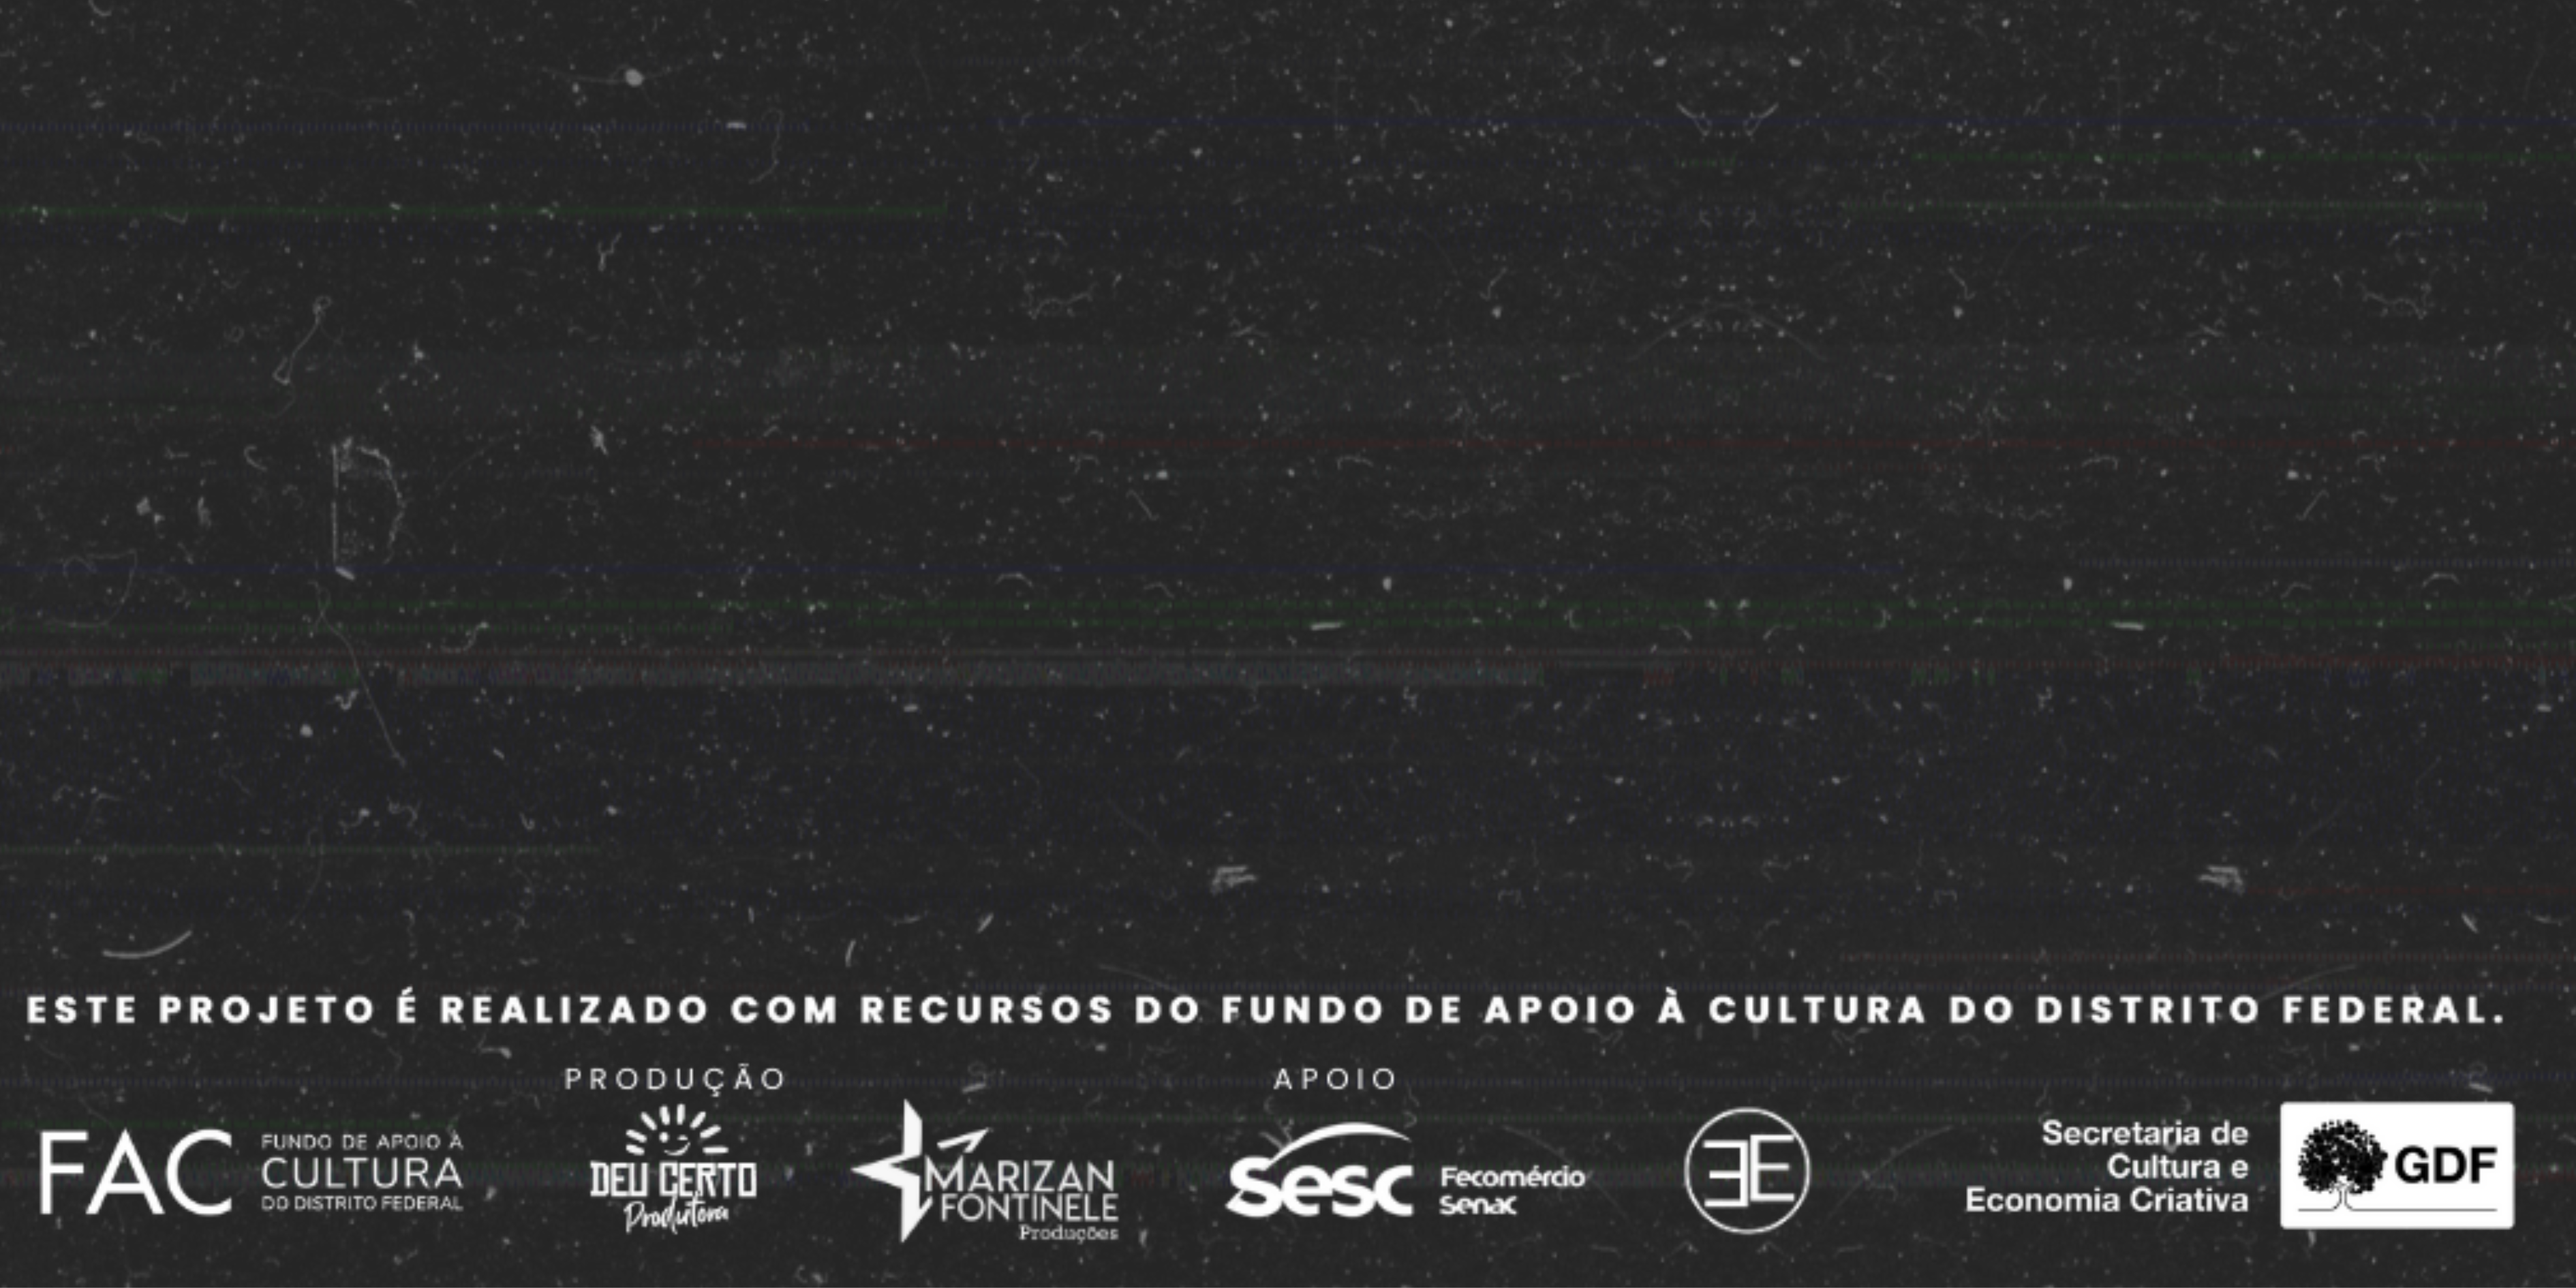
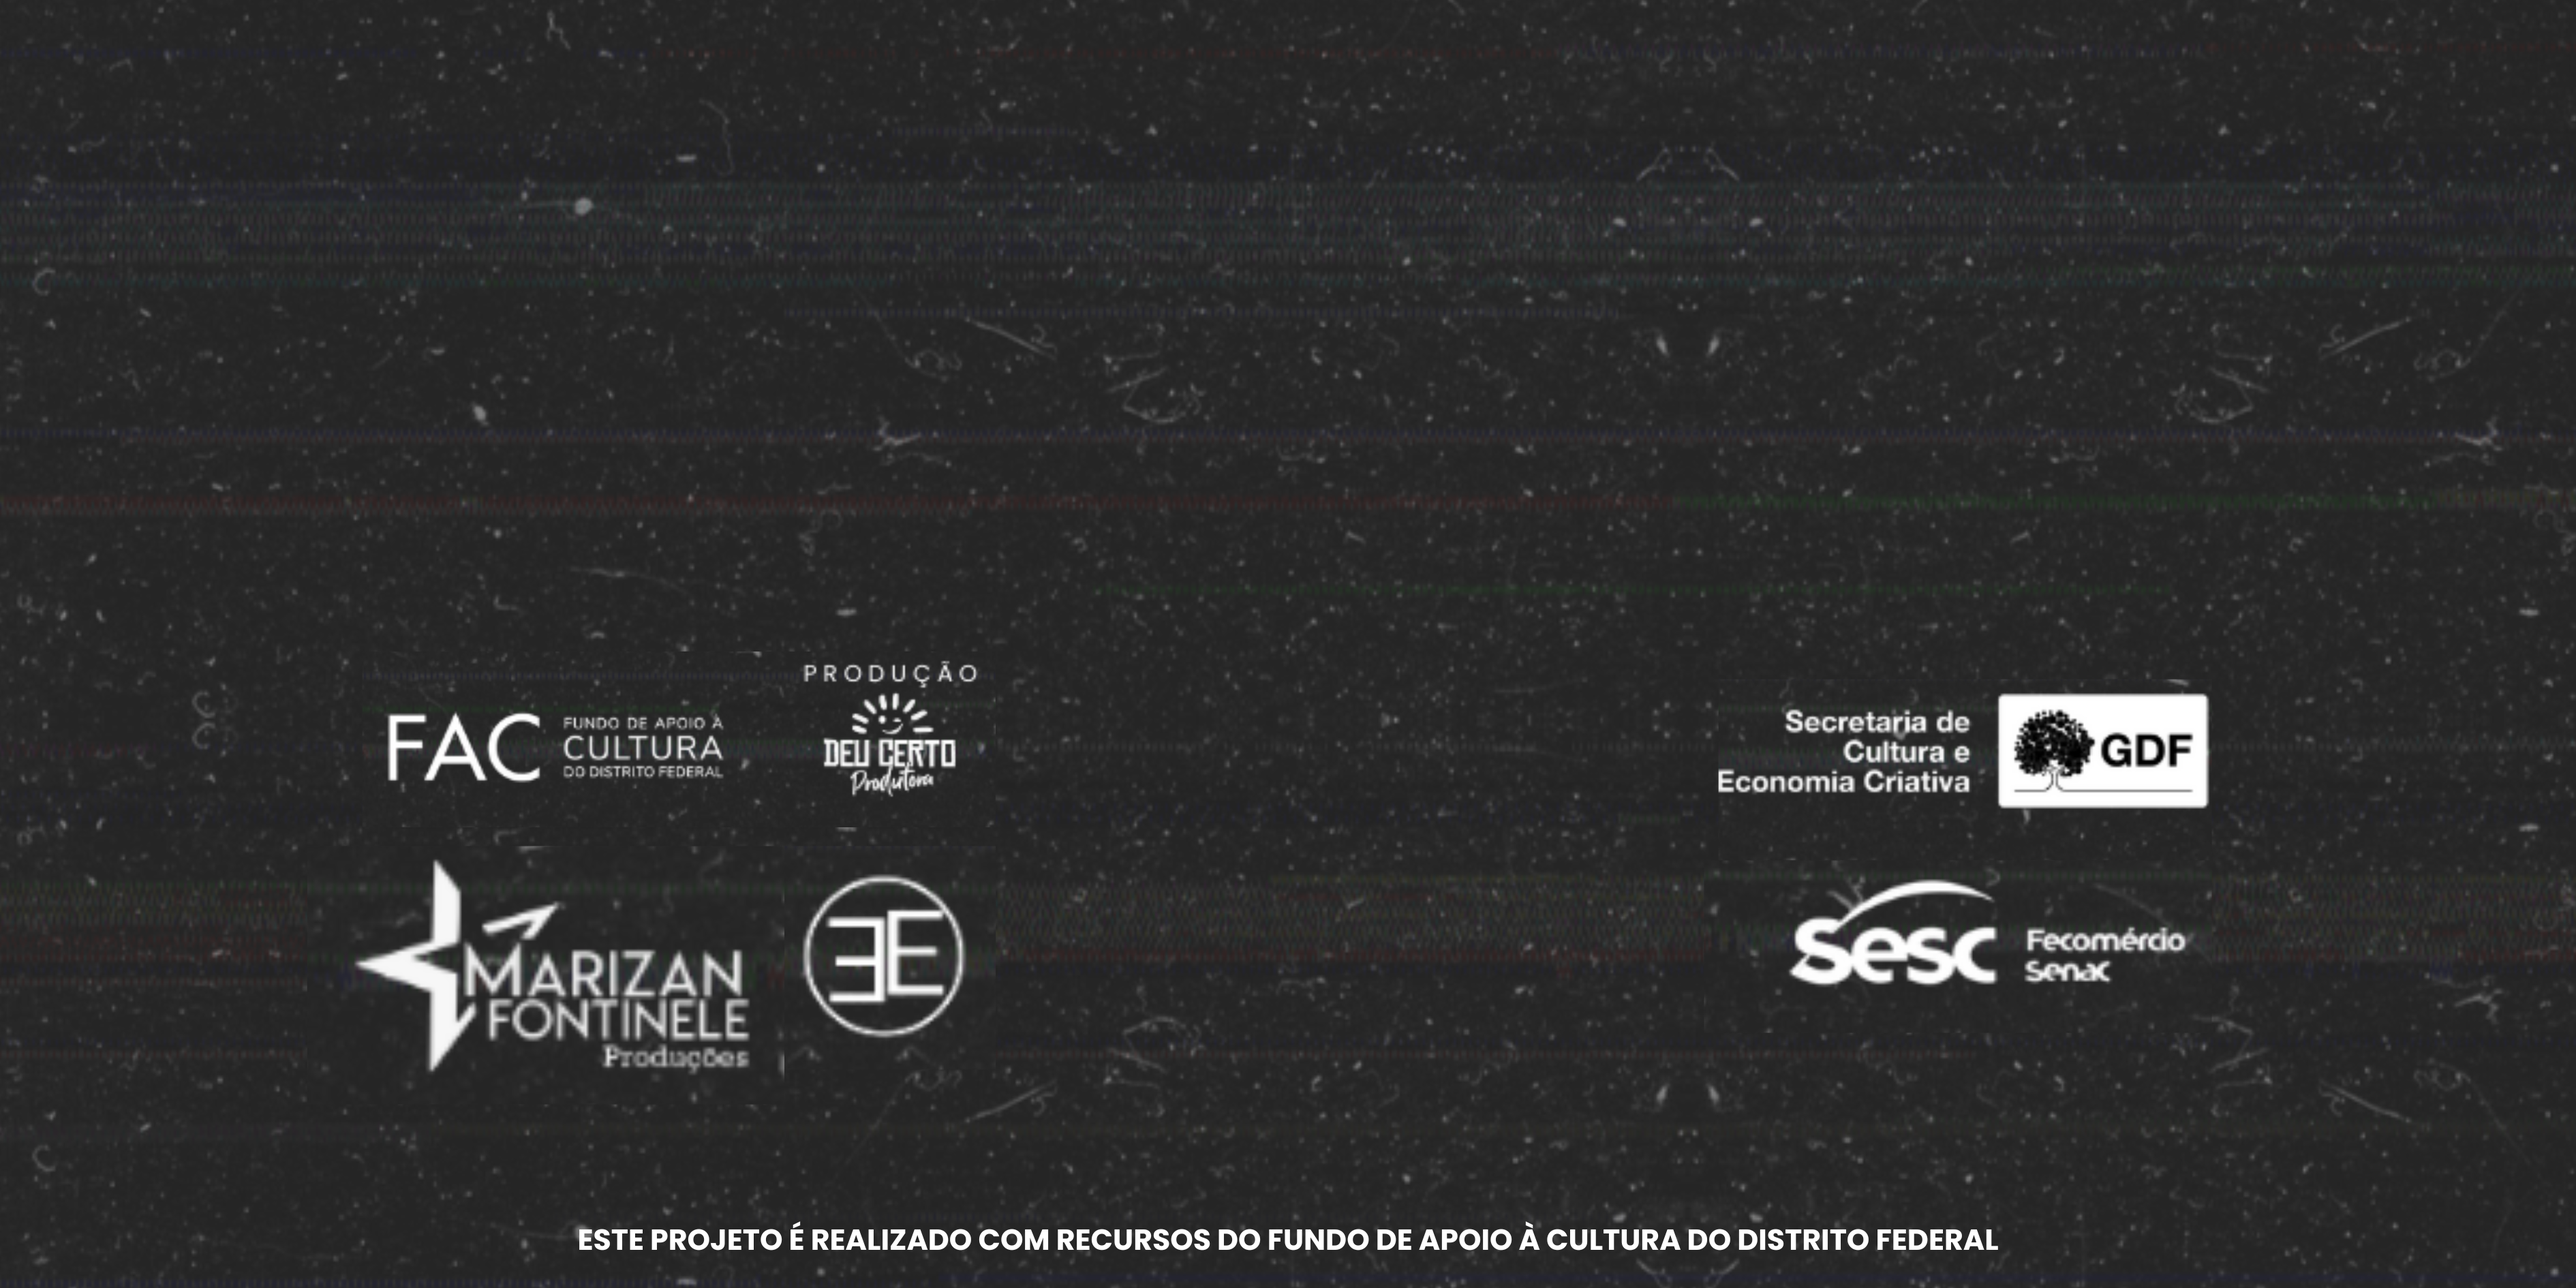
Atualização (mobile).js

diff --git a/gizelly-em-imagens.html b/gizelly-em-imagens.html
@@ -53,12 +53,12 @@ document.querySelectorAll('.lightbox').forEach(a => {
 </script>
 
     </main>
-   <!-- FOOTER -->
+    <!-- FOOTER -->
 <footer class="footer">
   <div class="container footer-grid">
     <div class="footer-column">
       <img alt="Logo O Lado B Felismente" class="footer-logo" src="assets/img/logo.png" />
-      <p class="footer-copy">
+      <p style="font-size: 1.0rem;" class="footer-copy">
         © 2025 — O Lado B Felismente<br />
         Produção: Deu Certo Produtora<br />
         Este projeto é realizado com recurso do FAC - Distrito Federal<br />
@@ -66,7 +66,7 @@ document.querySelectorAll('.lightbox').forEach(a => {
     </div>
     
     <div class="footer-column">
-      <h4>Contato</h4>
+      <h4 style="font-size: 1.2rem;">Contato</h4>
       <ul class="footer-list">
         <li>📞 (61) 98471-3178</li>
         <li>📧 contato@felismente.com</li>
@@ -75,13 +75,13 @@ document.querySelectorAll('.lightbox').forEach(a => {
     </div>
     
     <div class="footer-column">
-      <h4>Links</h4>
+      <h4 style="font-size: 1.2rem;">Links</h4>
       <ul class="footer-list">
         <li><a href="index.html">Início</a></li>
         <li><a href="o-lado-b.html">O Lado B</a></li>
-        <li><a href="midia.html">Mídia</a></li>
         <li><a href="programa.html">Programa</a></li>
-        <li><a href="gizelly-em-imagens.html">Gizelly em Imagens</a></li>
+        <li><a href="midia.html">Mídia</a></li>
+        <li><a class="active" href="gizelly-em-imagens.html">Gizelly em Imagens</a></li>
       </ul>
       </div>
     </div>

diff --git a/midia.html b/midia.html
@@ -64,7 +64,7 @@
   <div class="container footer-grid">
     <div class="footer-column">
       <img alt="Logo O Lado B Felismente" class="footer-logo" src="assets/img/logo.png" />
-      <p class="footer-copy">
+      <p style="font-size: 1.0rem;" class="footer-copy">
         © 2025 — O Lado B Felismente<br />
         Produção: Deu Certo Produtora<br />
         Este projeto é realizado com recurso do FAC - Distrito Federal<br />
@@ -72,7 +72,7 @@
     </div>
     
     <div class="footer-column">
-      <h4>Contato</h4>
+      <h4 style="font-size: 1.2rem;">Contato</h4>
       <ul class="footer-list">
         <li>📞 (61) 98471-3178</li>
         <li>📧 contato@felismente.com</li>
@@ -81,12 +81,12 @@
     </div>
     
     <div class="footer-column">
-      <h4>Links</h4>
+      <h4 style="font-size: 1.2rem;">Links</h4>
       <ul class="footer-list">
         <li><a href="index.html">Início</a></li>
         <li><a href="o-lado-b.html">O Lado B</a></li>
-        <li><a href="midia.html">Mídia</a></li>
         <li><a href="programa.html">Programa</a></li>
+        <li><a class="active" href="midia.html">Mídia</a></li>
         <li><a href="gizelly-em-imagens.html">Gizelly em Imagens</a></li>
       </ul>
       </div>
@@ -106,8 +106,4 @@
 </footer>
     </div>
   </body>
-</html>
-
-  </div>
-</body>
 </html>

diff --git a/index.html b/index.html
@@ -213,7 +213,7 @@
   <div class="container footer-grid">
     <div class="footer-column">
       <img alt="Logo O Lado B Felismente" class="footer-logo" src="assets/img/logo.png" />
-      <p class="footer-copy">
+      <p style="font-size: 1.0rem;" class="footer-copy">
         © 2025 — O Lado B Felismente<br />
         Produção: Deu Certo Produtora<br />
         Este projeto é realizado com recurso do FAC - Distrito Federal<br />
@@ -221,7 +221,7 @@
     </div>
     
     <div class="footer-column">
-      <h4>Contato</h4>
+      <h4 style="font-size: 1.2rem;">Contato</h4>
       <ul class="footer-list">
         <li>📞 (61) 98471-3178</li>
         <li>📧 contato@felismente.com</li>
@@ -230,12 +230,12 @@
     </div>
     
     <div class="footer-column">
-      <h4>Links</h4>
+      <h4 style="font-size: 1.2rem;">Links</h4>
       <ul class="footer-list">
-        <li><a href="index.html">Início</a></li>
+        <li><a class="active" href="index.html">Início</a></li>
         <li><a href="o-lado-b.html">O Lado B</a></li>
-        <li><a href="midia.html">Mídia</a></li>
         <li><a href="programa.html">Programa</a></li>
+        <li><a href="midia.html">Mídia</a></li>
         <li><a href="gizelly-em-imagens.html">Gizelly em Imagens</a></li>
       </ul>
       </div>

diff --git a/programa.html b/programa.html
@@ -86,7 +86,7 @@
   <div class="container footer-grid">
     <div class="footer-column">
       <img alt="Logo O Lado B Felismente" class="footer-logo" src="assets/img/logo.png" />
-      <p class="footer-copy">
+      <p style="font-size: 1.0rem;" class="footer-copy">
         © 2025 — O Lado B Felismente<br />
         Produção: Deu Certo Produtora<br />
         Este projeto é realizado com recurso do FAC - Distrito Federal<br />
@@ -94,7 +94,7 @@
     </div>
     
     <div class="footer-column">
-      <h4>Contato</h4>
+      <h4 style="font-size: 1.2rem;">Contato</h4>
       <ul class="footer-list">
         <li>📞 (61) 98471-3178</li>
         <li>📧 contato@felismente.com</li>
@@ -103,12 +103,12 @@
     </div>
     
     <div class="footer-column">
-      <h4>Links</h4>
+      <h4 style="font-size: 1.2rem;">Links</h4>
       <ul class="footer-list">
         <li><a href="index.html">Início</a></li>
         <li><a href="o-lado-b.html">O Lado B</a></li>
+        <li><a class="active" href="programa.html">Programa</a></li>
         <li><a href="midia.html">Mídia</a></li>
-        <li><a href="programa.html">Programa</a></li>
         <li><a href="gizelly-em-imagens.html">Gizelly em Imagens</a></li>
       </ul>
       </div>

diff --git a/assets/css/style.css b/assets/css/style.css
@@ -457,15 +457,14 @@ body {
 }
 
 .footer {
-  background: url("../img/fundo4.png") no-repeat center center/cover;
+  background: url("../img/banner2.png") no-repeat center center/cover;
   background-attachment: fixed;
   color: #fff;
-  padding: 2rem;
+  padding: 26px 0 28px;
   text-align: center;
   font-size: 0.9rem;
   position: relative;
   border-top: 1px solid rgba(252, 239, 239, 0.08);
-  padding: 26px 0 28px;
 }
 .footer-grid {
   display: grid;
@@ -516,6 +515,7 @@ body {
   margin: 10px 0 0;
 }
 .footer-list li {
+  font-size: 1.0rem;
   margin: 6px 0;
 }
 .footer a {
@@ -560,7 +560,7 @@ body {
   .agenda-note {
     font-size: 1rem;
   }
-
+}
 @media (max-width: 480px) {
   body {
     background-position: top center;
